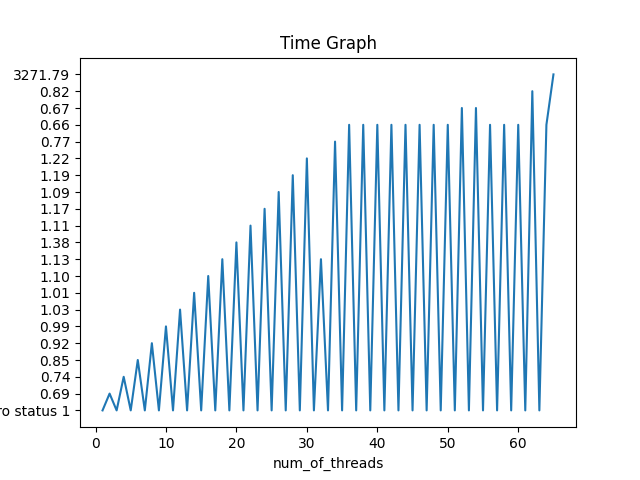
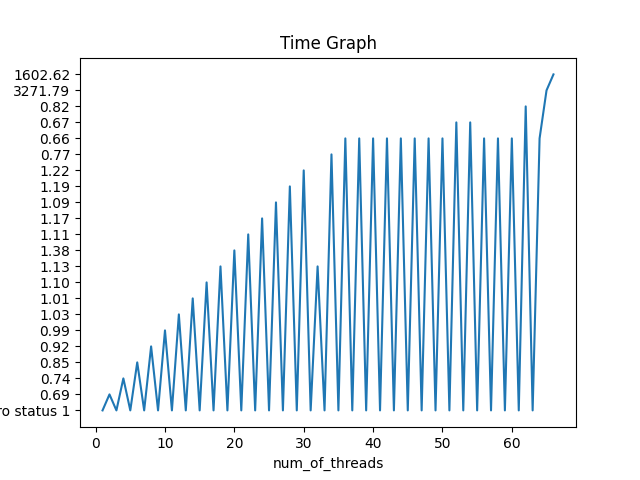
fixed graph

diff --git a/Assignment3/assignment3.py b/Assignment3/assignment3.py
@@ -4,8 +4,9 @@ import numpy as np
 
 df = pd.read_csv('output/timings.txt', header = None)
 time = df[0]
-x = np.linspace(1, len(time), len(time))
-
+print(time)
+x = np.linspace(1, 16, 1)
+print(x)
 
 plt.plot(x, time)
 plt.xlabel('num_of_threads')
